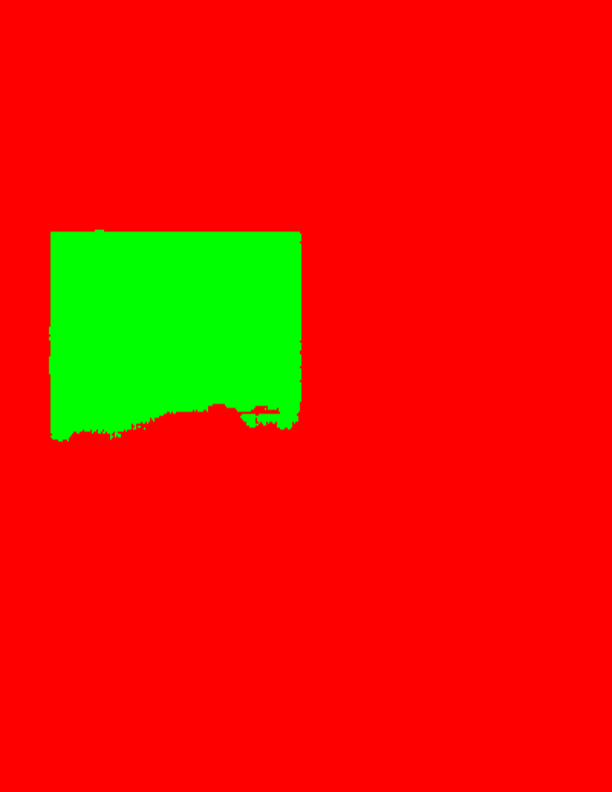
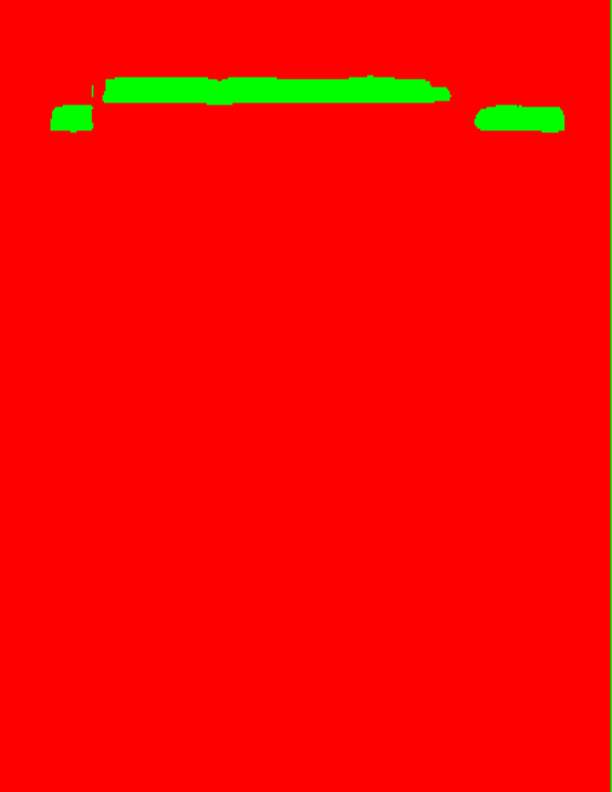
update: results for (title, no boundary, batch-normalized)

diff --git a/test.py b/test.py
@@ -3,19 +3,45 @@ import cv2
 from train import *
 from PIL import Image
 
-title = [1, 0, 0, 0]
-author = [0, 1, 0, 0]
-abstract = [0, 0, 1, 0]
-color_map = np.array([title, author, abstract])
 
+def test_generator(test_path, target_size=(400, 400)):
+    def delineate(img):
+        def sigmoid(x, c):
+            return 1 / (1 + np.exp(-c * x))
 
-def test_generator(test_path, target_size=(512, 512)):
+        def sobel(img, size):
+            img = ndimage.maximum_filter(img, size=size)
+            img = sigmoid(img, 5)
+            sx = ndimage.sobel(img, axis=0, mode='constant')
+            sy = ndimage.sobel(img, axis=1, mode='constant')
+            sobel = np.hypot(sx, sy)
+            gaussian = ndimage.gaussian_filter(sobel, sigma=3)
+            return gaussian
+
+        img = 1 - img
+
+        sobel1 = sobel(img, size=10)
+        sobel2 = sobel(img, size=16)
+        sobel3 = sobel(img, size=22)
+
+        avg = np.mean([sobel1, sobel2, sobel3], axis=0)
+        avg /= np.amax(avg)
+
+        return img
+
     for i in sorted(os.listdir(test_path)):
+        if i.startswith('.'):
+            continue
         print(i)
         img = cv2.imread(test_path + i, cv2.IMREAD_GRAYSCALE)
         img = img / 255
         img = cv2.resize(img, dsize=target_size, interpolation=cv2.INTER_NEAREST)
-        img = np.reshape(img, (1,) + img.shape)
+        boundary = delineate(img)
+        img = np.expand_dims(img, 2)
+        boundary = np.expand_dims(boundary, 2)
+        img = np.expand_dims(img, 0)
+        boundary = np.expand_dims(boundary, 0)
+        # yield np.squeeze(np.stack((img, boundary), axis=3), axis=4)
         yield img
 
 
@@ -23,9 +49,12 @@ def label_visualize(img):
     reshaped_img = np.reshape(img, [img.shape[0] * img.shape[1], img.shape[2]])
     maxed_img = np.zeros_like(reshaped_img)
     maxed_img[np.arange(len(reshaped_img)), reshaped_img.argmax(axis=1)] = 1
+    print(np.unique(maxed_img, axis=0, return_counts=True))
     img_out = np.zeros(maxed_img.shape[:1] + (3,))
     for i, color in enumerate(color_map):
-        img_out[np.all(maxed_img == color, axis=-1), i] = 255
+        print(i, np.where(np.all(maxed_img == color, axis=-1)))
+        img_out[np.where(np.all(maxed_img == color, axis=-1)), i] = 255
+    print(np.unique(img_out, axis=0, return_counts=True))
     img_out = np.reshape(img_out, (img.shape[:2] + (3,)))
     return img_out
 
@@ -33,14 +62,18 @@ def label_visualize(img):
 def save_result(npyfile):
     print(npyfile.shape)
     for i, item in enumerate(npyfile):
+        print(i, item.shape)
         img = label_visualize(item)
         img = Image.fromarray(img.astype(np.uint8))
         img = img.resize((612, 792))
         img.save('./results/result_{}.png'.format(i))
 
 
-testGene = test_generator('./test_data/covers/')
-model = Unet(4)
-model.load_weights("./unet_membrane.hdf5")
-results = model.predict(testGene, 10, verbose=1)
-save_result(results)
+if __name__ == "__main__":
+    testGene = test_generator('./test_data/')
+    num_class = 2
+    model = Unet(num_class)
+    color_map = np.eye(num_class)
+    model.model.load_weights('./unet_membrane_title_no_boundary_batchnorm.hdf5')
+    results = model.model.predict(testGene, verbose=1)
+    save_result(results)

diff --git a/train.py b/train.py
@@ -38,7 +38,7 @@ def focal_tversky_loss(y_true, y_pred, gamma=0.75):
 
 
 class Unet:
-    def __init__(self, num_class, input_size=(400, 400, 2)):
+    def __init__(self, num_class, input_size=(400, 400, 1)):
         self.base_model = None
         self.input_size = input_size
         self.num_class = num_class
